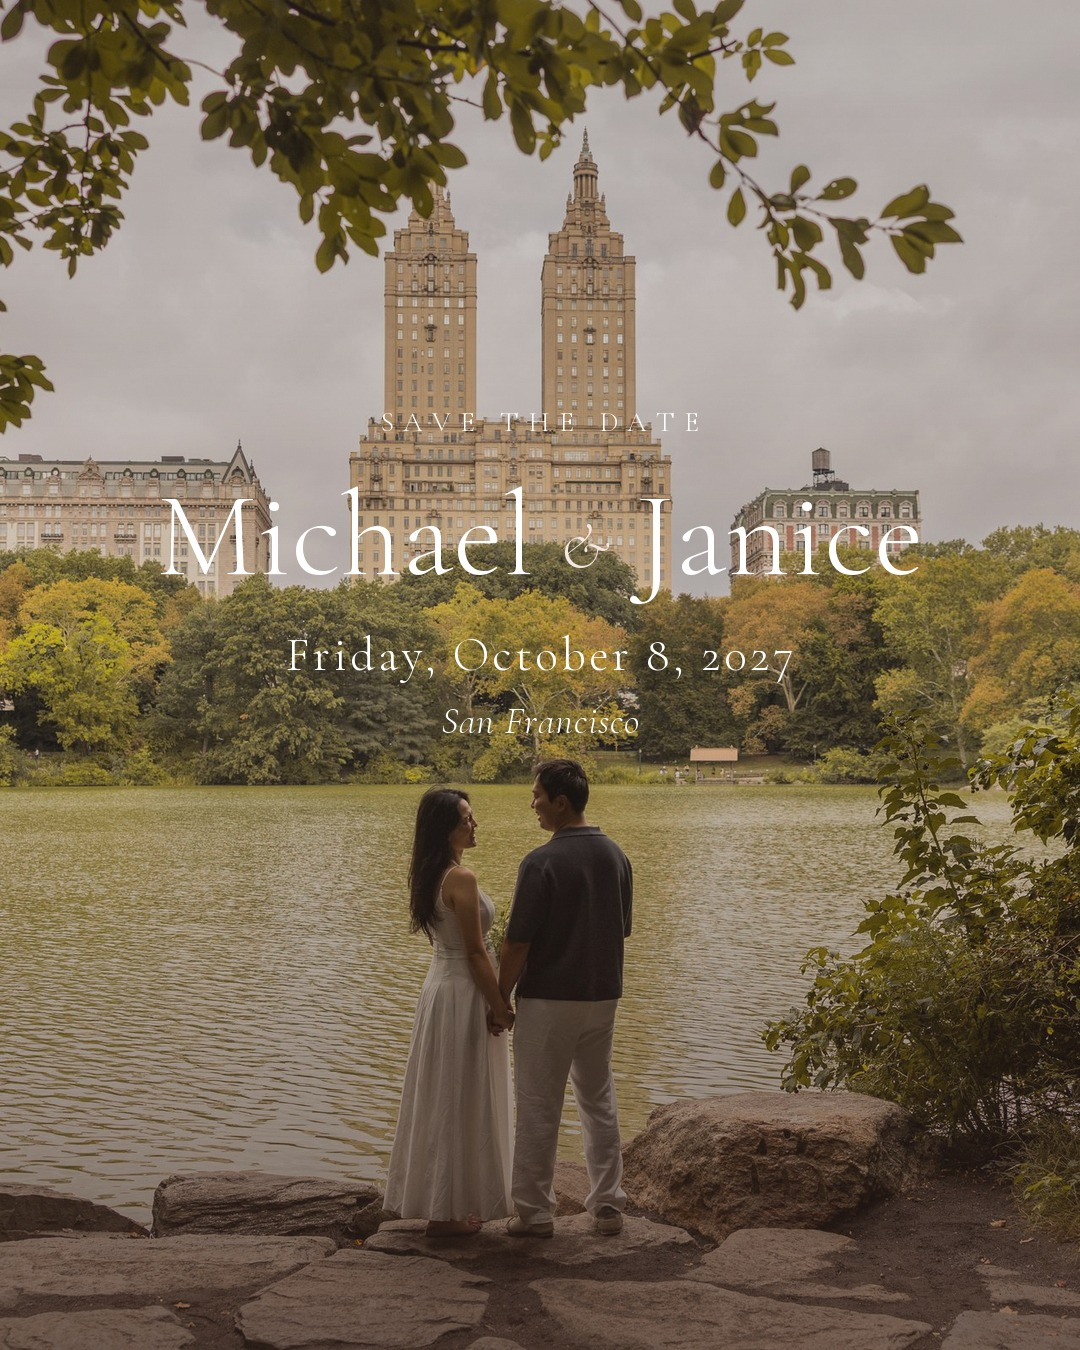
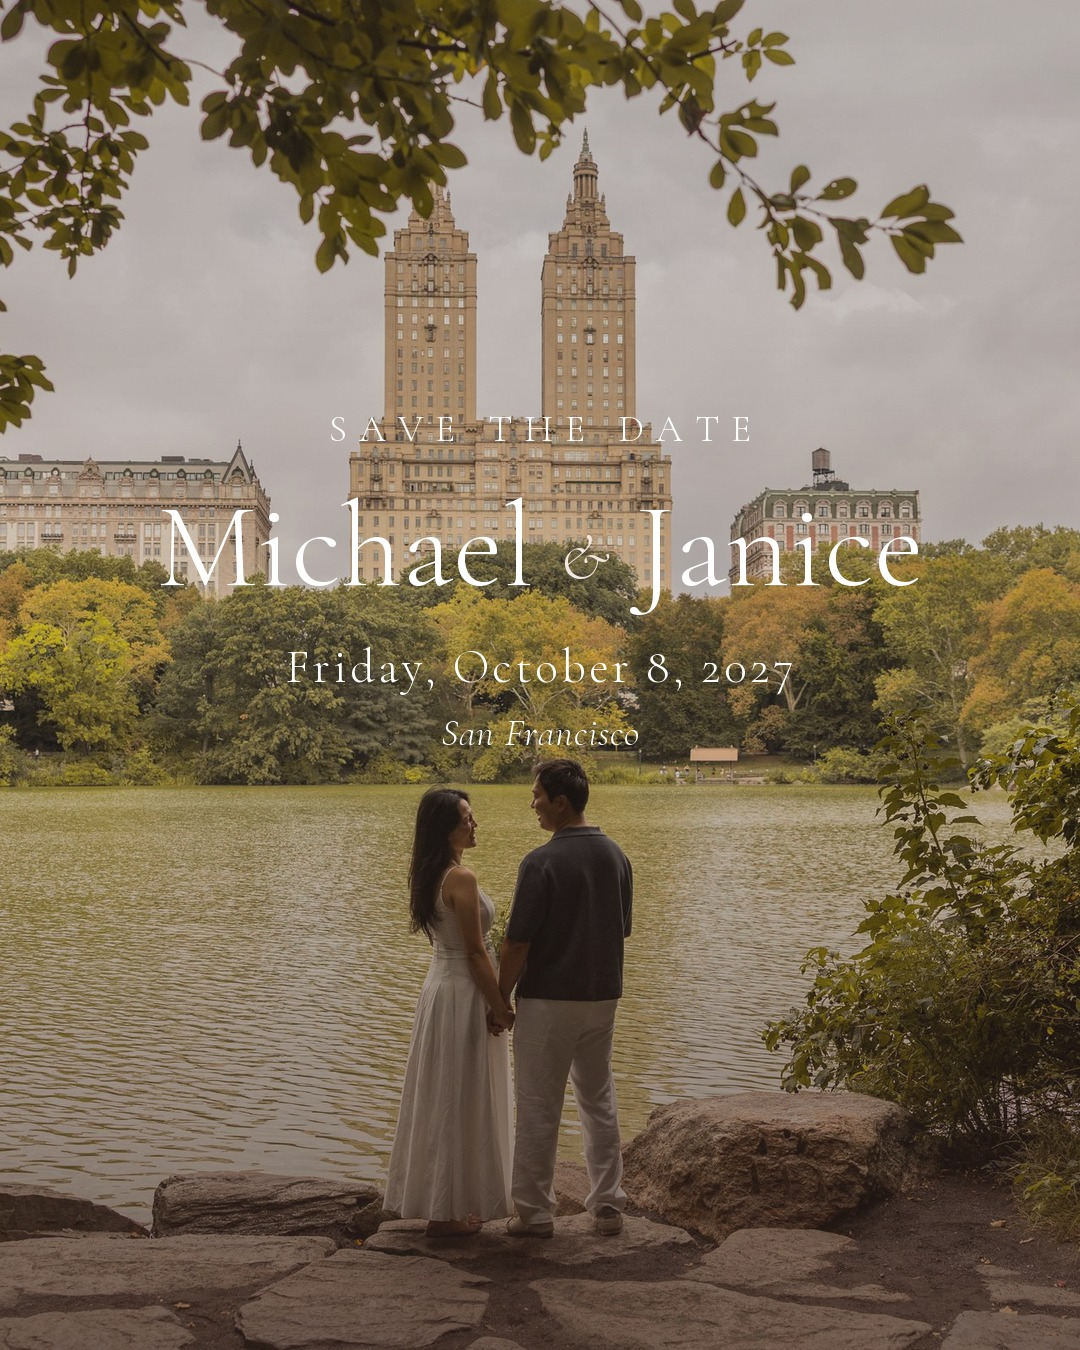
Larger Save the date line

diff --git a/style.css b/style.css
@@ -36,8 +36,8 @@ p { margin: 0; }
 @keyframes kb { from { transform: scale(1.1); } to { transform: scale(1); } }
 .hero-text { position: relative; padding: 0 20px 14vh; animation: rise 1.4s cubic-bezier(.2,.7,.2,1) both .2s; }
 @keyframes rise { from { opacity: 0; transform: translateY(24px); } }
-.eyebrow { font-size: 12px; letter-spacing: .3em; text-transform: uppercase; color: rgba(255,255,255,.9); margin-bottom: 18px; }
-html[lang="ko"] .eyebrow { letter-spacing: .16em; }
+.eyebrow { font-family: var(--serif); font-size: clamp(18px, 2.2vw, 24px); letter-spacing: .34em; text-transform: uppercase; color: rgba(255,255,255,.92); margin-bottom: 22px; }
+html[lang="ko"] .eyebrow { font-size: clamp(20px, 2.4vw, 26px); letter-spacing: .2em; }
 h1 { font-family: var(--serif); font-weight: 300; font-size: clamp(50px, 9.5vw, 120px); line-height: 1; margin: 0 0 16px; letter-spacing: .01em; }
 h1 em { font-style: italic; font-size: .55em; vertical-align: middle; margin: 0 .12em; color: var(--bg2); }
 .date { font-family: var(--serif); font-size: clamp(22px, 3vw, 34px); letter-spacing: .06em; }

diff --git a/index.html b/index.html
@@ -14,7 +14,7 @@
 <link rel="preconnect" href="https://fonts.googleapis.com">
 <link rel="preconnect" href="https://fonts.gstatic.com" crossorigin>
 <link href="https://fonts.googleapis.com/css2?family=Cormorant+Garamond:ital,wght@0,300;0,400;1,300;1,400&family=Gowun+Batang:wght@400;700&family=Gowun+Dodum&display=swap" rel="stylesheet">
-<link rel="stylesheet" href="style.css?v=6">
+<link rel="stylesheet" href="style.css?v=7">
 </head>
 <body>
 
@@ -68,6 +68,6 @@
   <p id="footer-names"></p>
 </footer>
 
-<script src="script.js?v=6"></script>
+<script src="script.js?v=7"></script>
 </body>
 </html>

diff --git a/make-images.py b/make-images.py
@@ -71,7 +71,7 @@ def render(lang: str, size_name: str) -> Path:
     cx = w / 2
     s = w / 1080  # scale factor if sizes change
 
-    f_eyebrow = font(t["serif"] if lang == "ko" else "CormorantGaramond-Light.ttf", round((30 if lang == "ko" else 28) * s))
+    f_eyebrow = font(t["serif"] if lang == "ko" else "CormorantGaramond-Light.ttf", round((40 if lang == "ko" else 38) * s))
     f_names = font(t["serif"], round((104 if lang == "ko" else 122) * s))
     f_amp = font("CormorantGaramond-LightItalic.ttf", round((84 if lang == "ko" else 66) * s))
     f_date = font(t["serif"], round((44 if lang == "ko" else 48) * s))
@@ -79,8 +79,8 @@ def render(lang: str, size_name: str) -> Path:
 
     # Vertical layout: the block sits a little above centre so it clears the couple low in the frame.
     y = h * (0.30 if size_name == "4x5" else 0.26)
-    tracked(draw, cx, y, t["eyebrow"], f_eyebrow, tracking=(9 if t["tracking"] else 4) * s, fill=(255, 255, 255, 230))
-    y += f_eyebrow.size * 1.9
+    tracked(draw, cx, y, t["eyebrow"], f_eyebrow, tracking=(12 if t["tracking"] else 6) * s, fill=(255, 255, 255, 230))
+    y += f_eyebrow.size * 1.7
 
     n1, n2 = t["names"]
     gap = 26 * s
